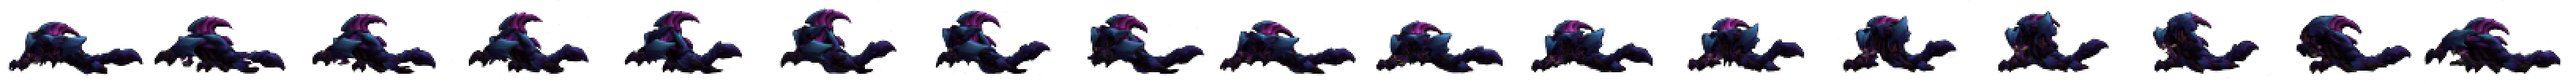
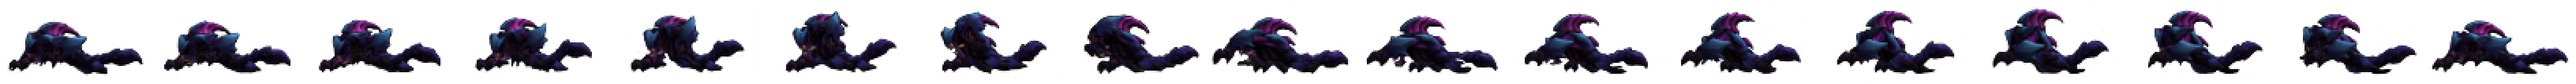
Reksai Walking

Changed region(s): [[0.0625, 0.1121, 1.0, 0.8972]]

diff --git a/491Game/main.js b/491Game/main.js
@@ -14,6 +14,23 @@ function Animation(spriteSheet, startX, startY, frameWidth, frameHeight, frameDu
 	this.offsetY = offsetY || 0;
 }
 
+function getXDistance(entity1, entity2) {
+    var distance = 0;
+    if (entity1.hitBox.x + entity1.hitBox.width < entity2.hitBox.x) {
+        distance = entity1.hitBox.x + entity1.hitBox.width - entity2.hitBox.x;        
+    } else if (entity1.hitBox.x > entity2.hitBox.x + entity2.hitBox.width) {
+        distance = entity1.hitBox.x - entity2.hitBox.x + entity2.hitBox.width;
+    }
+    return distance;
+};
+
+function drawHitBox(entity, ctx) {
+    entity.hitBox = {x:entity.x + entity.currentAnimation.offsetX, y:entity.y + entity.currentAnimation.offsetY, width:entity.currentAnimation.frameWidth, height:entity.currentAnimation.frameHeight};
+    ctx.globalAlpha=0.2;
+    ctx.fillRect(entity.hitBox.x,entity.hitBox.y,entity.hitBox.width,entity.hitBox.height); // Hitbox drawing for testing
+    ctx.globalAlpha=1;
+}
+
 Animation.prototype.drawFrame = function (tick, ctx, x, y, scaleBy, linger) {
 	var linger = linger || false;
     var scale = scaleBy || 1;
@@ -245,21 +262,62 @@ Arrow.prototype.draw = function (ctx) {
 };
 
 function Reksai(game) {
+    this.state = "idle";
+    this.walkSpeed = 2;
+	this.lastDirection = "Left";
+    
 	this.idleRight = new Animation(ASSET_MANAGER.getAsset("./img/Reksai/ReksaiIdleRight.png"), 0, 0, 151, 100, 0.1, 10, true, false, 0, 0);
 	this.idleLeft = new Animation(ASSET_MANAGER.getAsset("./img/Reksai/ReksaiIdleLeft.png"), 0, 0, 151, 100, 0.1, 10, true, false, 0, 0);
+
+    this.walkAnimationRight = new Animation(ASSET_MANAGER.getAsset("./img/Reksai/ReksaiWalkRight.png"), 0, 0, 192, 107, 0.1, 17, true, false, 0, 0);
+    this.walkAnimationLeft = new Animation(ASSET_MANAGER.getAsset("./img/Reksai/ReksaiWalkLeft.png"), 0, 0, 192, 107, 0.1, 17, true, false, 0, 0);
+        
     Entity.call(this, game, 600, 195);
+    
+    this.currentAnimation = this.idleLeft;
+    this.hitBox = {x:this.x + this.currentAnimation.offsetX, y:this.y + this.currentAnimation.offsetY, width:this.currentAnimation.frameWidth, height:this.currentAnimation.frameHeight};
 }
 
 Reksai.prototype.update = function() {
+    var distance = getXDistance(this.game.player1, this);
+    if (distance < 0) {
+        this.state = "walking";
+        this.lastDirection = "Left";
+        this.x -= this.walkSpeed;
+    } else if (distance > 0) {
+        this.state = "walking";
+        this.lastDirection = "Right";
+        this.x += this.walkSpeed;
+    } else {
+        this.state = "idle"
+    }
+    console.log(distance);
     Entity.prototype.update.call(this);
 }
 
 Reksai.prototype.draw = function (ctx) {
-	if (this.game.bossLastDirection === "Right") {
-		this.idleRight.drawFrame(this.game.clockTick, ctx, this.x + this.idleRight.offsetX, this.y + this.idleRight.offsetY);
-	} else {
-		this.idleLeft.drawFrame(this.game.clockTick, ctx, this.x + this.idleLeft.offsetX, this.y + this.idleLeft.offsetY);
-	}
+    if (this.lastDirection === "Right") {
+        if (this.state === "idle") {
+            this.idleRight.drawFrame(this.game.clockTick, ctx, this.x + this.idleRight.offsetX, this.y + this.idleRight.offsetY);
+            this.currentAnimation = this.idleRight;
+        } else if (this.state === "walking") {
+            this.walkAnimationRight.drawFrame(this.game.clockTick, ctx, this.x + this.walkAnimationRight.offsetX, this.y + this.walkAnimationRight.offsetY);
+            this.currentAnimation = this.walkAnimationRight;
+        }
+    } else {
+        if (this.state === "idle") {
+            this.idleLeft.drawFrame(this.game.clockTick, ctx, this.x + this.idleLeft.offsetX, this.y + this.idleLeft.offsetY);
+            this.currentAnimation = this.idleLeft;
+        } else if (this.state === "walking") {
+            this.walkAnimationLeft.drawFrame(this.game.clockTick, ctx, this.x + this.walkAnimationLeft.offsetX, this.y + this.walkAnimationLeft.offsetY);
+            this.currentAnimation = this.walkAnimationLeft;
+        }
+    }
+    
+    this.hitBox = {x:this.x + this.currentAnimation.offsetX, y:this.y + this.currentAnimation.offsetY, width:this.currentAnimation.frameWidth, height:this.currentAnimation.frameHeight};
+
+    drawHitBox(this, ctx);
+    
     Entity.prototype.draw.call(this);
 };
 
@@ -267,7 +325,7 @@ function Character(game) {
 	this.runSpeed = 3;
 	this.jumpSpeed = 0;
 	this.lastDirection = "Right";
-	
+    	
 	this.idleAnimation = null;
     this.idleAnimationRight = new Animation(ASSET_MANAGER.getAsset("./img/Riven/RivenIdleRight.png"), 0, 0, 55, 85, 0.1, 12, true, false, 0, 0);
     this.idleAnimationLeft = new Animation(ASSET_MANAGER.getAsset("./img/Riven/RivenIdleLeft.png"), 0, 0, 55, 85, 0.1, 12, true, false, 0, 0);
@@ -307,14 +365,17 @@ function Character(game) {
 	this.attackIndex = 0;
     this.radius = 0;
     this.ground = 200;
+    
     Entity.call(this, game, 100, 200);
+    
+    this.currentAnimation = this.idleAnimationRight;
+    this.hitBox = {x:this.x + this.currentAnimation.offsetX, y:this.y + this.currentAnimation.offsetY, width:this.currentAnimation.frameWidth, height:this.currentAnimation.frameHeight};
 }
 
 Character.prototype = new Entity();
 Character.prototype.constructor = Character;
 
 Character.prototype.update = function () {
-    //if (this.game.space) this.jumping = true; //i don't have the jump animation! so we'll leave this out
 	if (this.game.r) {
 		if (!this.attacking) {
 			//this.attacking = true;
@@ -507,13 +568,20 @@ Character.prototype.update = function () {
 Character.prototype.draw = function (ctx) {
 	if (this.jumping) { // Jumping
 		this.jumpAnimation.drawFrame(this.game.clockTick, ctx, this.x + this.jumpAnimation.offsetX, this.y + this.jumpAnimation.offsetY, 1, true);
+        this.currentAnimation = this.jumpAnimation;        
     } else if (this.attacking && this.attackAnimation != null) { // Attacking
         this.attackAnimation.drawFrame(this.game.clockTick, ctx, this.x + this.attackAnimation.offsetX, this.y + this.attackAnimation.offsetY);
+        this.currentAnimation = this.attackAnimation;
     } else if (this.running) { // Running
 		this.runAnimation.drawFrame(this.game.clockTick, ctx, this.x + this.runAnimation.offsetX, this.y + this.runAnimation.offsetY);	
+        this.currentAnimation = this.runAnimation;
     } else { // Idle
 		this.idleAnimation.drawFrame(this.game.clockTick, ctx, this.x + this.idleAnimation.offsetX, this.y + this.idleAnimation.offsetY);
+        this.currentAnimation = this.idleAnimation;
     }
+    
+    drawHitBox(this, ctx);
+    
     Entity.prototype.draw.call(this);
 };
 
@@ -550,6 +618,8 @@ ASSET_MANAGER.queueDownload("./img/Riven/RivenJumpRight.png");
 
 ASSET_MANAGER.queueDownload("./img/Reksai/ReksaiIdleRight.png");
 ASSET_MANAGER.queueDownload("./img/Reksai/ReksaiIdleLeft.png");
+ASSET_MANAGER.queueDownload("./img/Reksai/ReksaiWalkLeft.png");
+ASSET_MANAGER.queueDownload("./img/Reksai/ReksaiWalkRight.png");
 
 ASSET_MANAGER.queueDownload("./img/Background.png");
 ASSET_MANAGER.queueDownload("./img/UI/Bottom.png");
@@ -571,7 +641,10 @@ ASSET_MANAGER.downloadAll(function () {
     gameEngine.addEntity(ui);
     gameEngine.addEntity(character);
     gameEngine.addEntity(reksai);
+    console.log(gameEngine.player1);
  
     gameEngine.init(ctx);
+    gameEngine.setPlayer1(character);
+    gameEngine.setBoss(reksai);
     gameEngine.start();
 });

diff --git a/491Game/gameengine.js b/491Game/gameengine.js
@@ -45,6 +45,7 @@ GameEngine.prototype.init = function (ctx) {
     this.surfaceHeight = this.ctx.canvas.height;
     this.startInput();
     this.timer = new Timer();
+    this.player1 = null;
 	this.player1Right = false;
 	this.player1Left = false;
 	this.player1RightUp = true;
@@ -59,8 +60,7 @@ GameEngine.prototype.init = function (ctx) {
 	this.player1AttackIndex = 0; //the actual skill being used
 	this.player1AttackInput = 0; //the raw attack input
 	this.player1LastLightAttack = 0;
-	
-	this.bossLastDirection = "Left";
+	this.currentBoss = null;
     console.log('game initialized');
 };
 
@@ -129,6 +129,14 @@ GameEngine.prototype.startInput = function () {
 GameEngine.prototype.addEntity = function (entity) {
     console.log('added entity');
     this.entities.push(entity);
+};
+
+GameEngine.prototype.setPlayer1 = function (entity) {
+    this.player1 = entity;
+};
+
+GameEngine.prototype.setBoss = function (entity) {
+    this.currentBoss = entity;
 };
 
 GameEngine.prototype.draw = function () {
